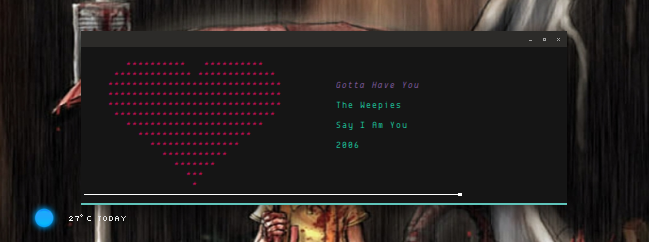
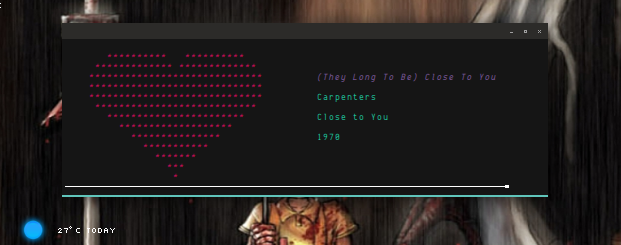
modified:   preview.png 	new file:   src/.main.c.swp 	modified:   src/fm.c 	modified:   src/main.c 	deleted:    src/.main.c.swp

diff --git a/src/main.c b/src/main.c
@@ -113,6 +113,8 @@ int main(int argc, char **argv)
 			exit(EXIT_FAILURE);
 		}
 
+		signal(SIGUSR1, SIG_IGN);
+
 		/* run as daemon */
 		daemonize(value((const struct hash **)rc, "log"), value((const struct hash **)rc, "err"));
 	}

diff --git a/src/fm.c b/src/fm.c
@@ -125,6 +125,8 @@ void fm_skip()
 	list->position = -1;
 
 	fm_run(list);
+
+	SCREEN_UPDATE();
 }
 
 int fm_love(struct playlist *pl)

diff --git a/README.md b/README.md
@@ -1,10 +1,51 @@
-dbfm
-====
 
-a client of douban.fm
+Config(dbfm.conf)
+======
+	# Alsa driver short name "alsa" or "pulse"(make sure pulseaudio has installed)
+	driver=pulse
 
-copy conf/* to $XDG_CONFIG_HOME/dbfm/
+	# Douban.fm channels, curl "http://www.douban.com/j/app/radio/channels" | jsonpp or cat $XDG_CONFIG_HOME/dbfm/channels
+	channel=-3
 
-type make and run with option '-h'
+	# Log file
+	log=/tmp/dbfm.log
 
-about 'sample rate 24000 not supported by the hardware ...', plz edit 'dbfm.conf' add 'driver=pulse'
+	# Error log
+	err=/tmp/dbfm.log
+
+	# Download directory
+	download=/media/Music/download
+
+------------------------------------------------------------------------
+
+	A simple client for www.douban.com
+
+	Github: www.github.com/tnrazy/dbfm
+
+
+	Key map:
+		
+		n - Play next track
+
+		s - Skip playlist
+
+		l - Mark track as loved
+
+		u - Unlove
+
+		b - Banned current track
+
+		d - Download current track (IDV3 tag undone)
+
+		p - Print playlist
+
+		i - Track info
+
+		c - Change channel (Channel list undone, just for telnet)
+
+		Q - Exit
+
+		? - Print help
+
+------------------------------------------------------------------------
+
